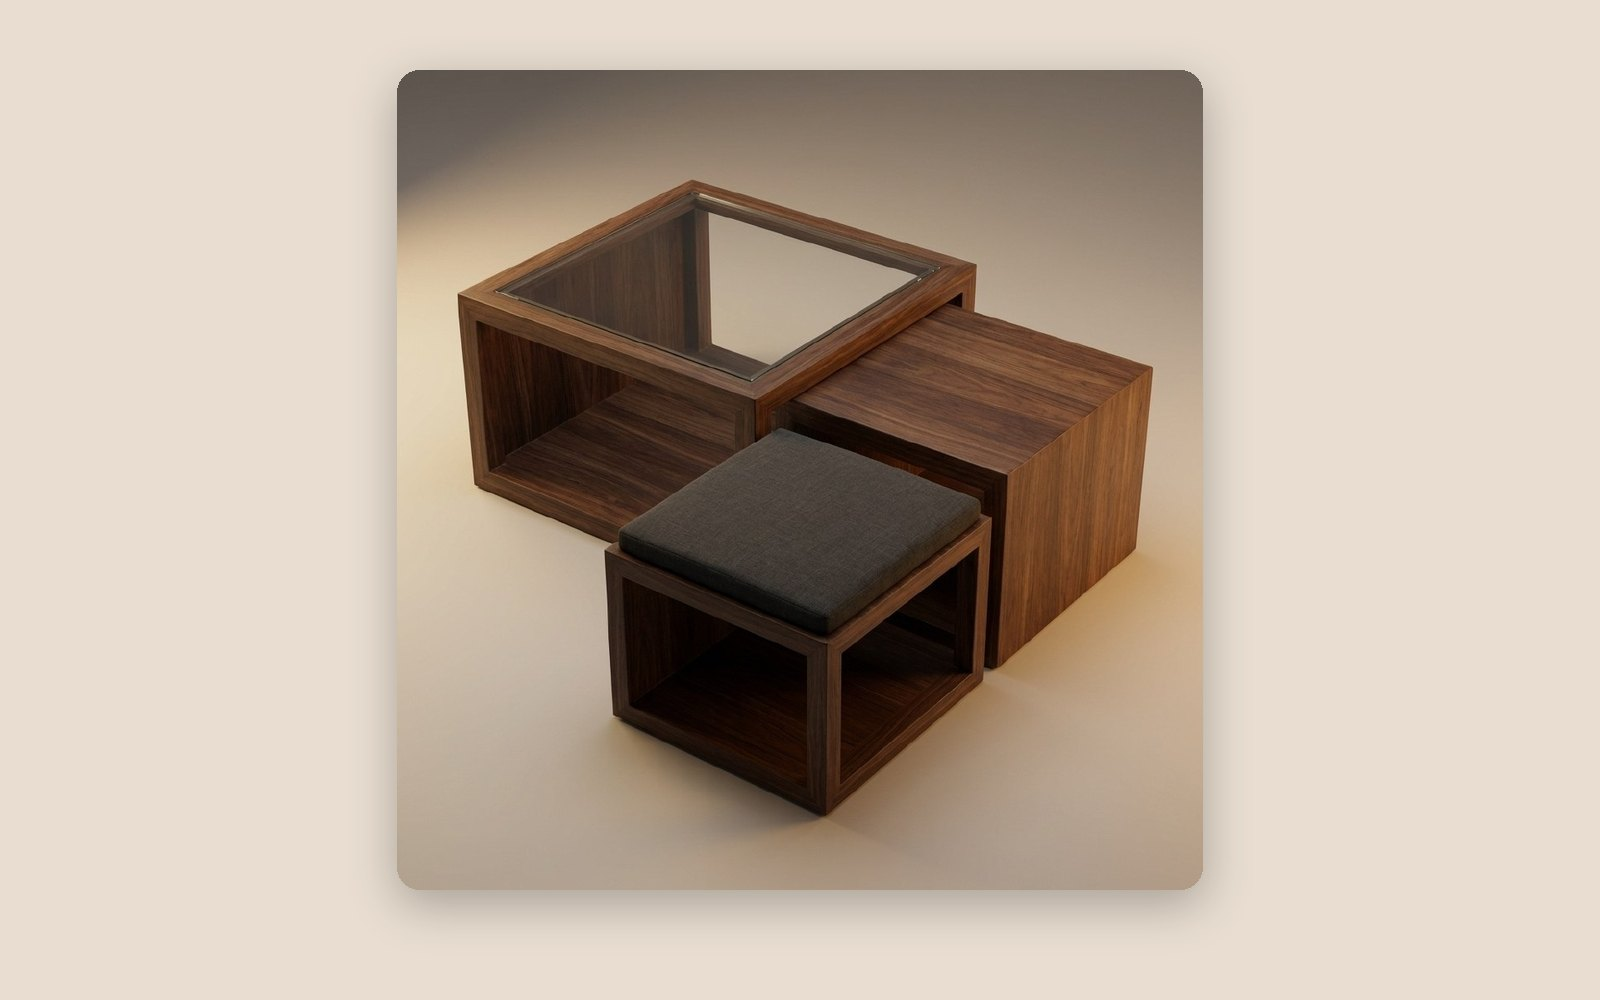
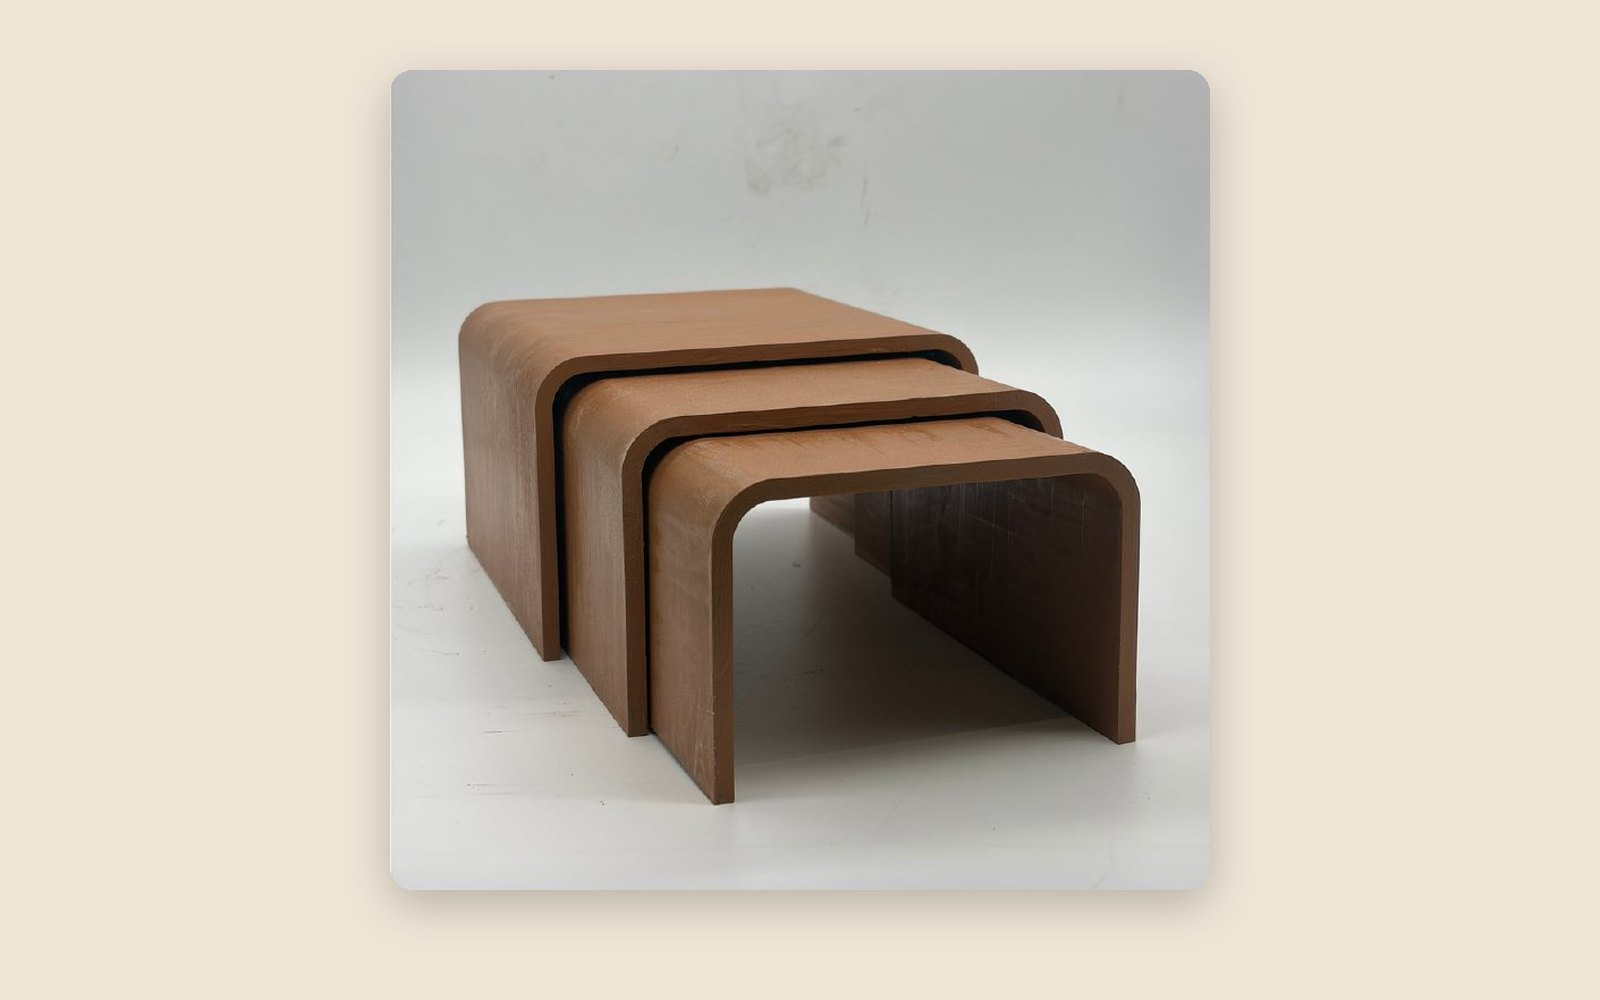
Alcove: rename, final deck process, 1/4 scale prototype, Taliyah's sketches
Claude-Session: https://claude.ai/code/session_01AwHsma3J4qtfuvQVtc4JfL

diff --git a/work/alcove.html b/work/alcove.html
@@ -1,0 +1,106 @@
+<!DOCTYPE html>
+<html lang="en">
+<head>
+<meta charset="utf-8">
+<meta name="viewport" content="width=device-width, initial-scale=1">
+<title>Alcove · Taliyah Harvey</title>
+<meta name="description" content="Process and reflection: a nesting coffee table for small first apartments: the smaller table slides out to expand the surface.">
+<link rel="icon" type="image/png" href="../assets/favicon.png">
+<link rel="preconnect" href="https://fonts.googleapis.com">
+<link rel="preconnect" href="https://fonts.gstatic.com" crossorigin>
+<link rel="stylesheet" href="https://fonts.googleapis.com/css2?family=Inter:wght@400;500;600;700;800;900&display=swap">
+<link rel="stylesheet" href="process.css">
+</head>
+<body>
+<header class="top">
+  <div class="bar">
+    <a class="mark" href="/" aria-label="Taliyah Harvey, home"><b>tj</b> <span>Taliyah Harvey</span></a>
+    <nav aria-label="Site">
+      <a href="/#work">Work</a>
+      <a href="/#about">About</a>
+      <a href="/#contact">Contact</a>
+      <a href="https://drive.google.com/file/d/1bd_ZmiNHnVtcSxHFkS7MbYG4A5ucGU3_/view?usp=sharing" target="_blank" rel="noopener">Resume</a>
+    </nav>
+  </div>
+</header>
+
+<main class="col">
+  <section class="head">
+    <a class="back" href="/#classwork">&larr; All class projects</a>
+    <p class="kick">Spring 2026 · ACAD-445, Designing Products for Licensing</p>
+    <h1>Alcove</h1>
+    <p class="plabel">Problem statement</p>
+    <p class="sub">A <span class="blank">young adult</span> who feels <span class="blank">stuck</span> about <span class="blank">furnishing a first apartment</span> needs to <span class="blank">find one piece that works for work, living and hosting</span>, but <span class="blank">most furniture is cheap, bulky or single-use</span>.</p>
+    <ul class="meta"><li><span>Team</span><b>Bodie Currier, Maya Parthasarathy, David Rodin, Jones Mays II and me</b></li><li><span>Class</span><b>ACAD-445, Designing Products for Licensing</b></li><li><span>Built</span><b>1/4 scale prototype</b></li></ul>
+    
+    <div class="nums"><div><b>1/4</b><span>scale prototype we built</span></div><div><b>1 motion</b><span>to expand the surface</span></div></div>
+  </section>
+
+  <section class="sect" aria-labelledby="how-h">
+    <h2 id="how-h">How It Went</h2>
+    <ol class="log">
+      <li>
+        <div class="when">Purpose<span class="tag r">Research</span></div>
+        <h3>Furniture That Grows with You</h3>
+        <p>Young adults furnishing their first apartment need furniture that's affordable and works for work, living and hosting, without taking over a small space. Most options make you pick: cheap but temporary, stylish but single-purpose, or functional but huge.</p><p>Our idea: furniture that works by day, lives by night, and hosts friends without crowding the room.</p>
+      </li>
+      <li>
+        <div class="when">Research<span class="tag r">Research</span></div>
+        <h3>Julie and Alex</h3>
+        <p>We built two personas from our interviews.</p><ul><li><b>Julie</b>, a UX designer in a 500 sq ft downtown studio. Curated, warm neutrals, hosts small dinners. Hates visually heavy furniture and pieces that look too convertible.</li><li><b>Alex</b>, a junior marketing associate with a roommate, working from home 3 to 4 days a week. Wants something that feels adult and affordable. Hates bulky, wobbly lift-top tables.</li></ul>
+      </li>
+      <li>
+        <div class="when">Research<span class="tag r">Research</span></div>
+        <h3>The Gap</h3>
+        <p>We mapped what's out there twice: simple versus complex, and compact versus space-consuming. The corner we wanted, simple, multi-functional and compact, was basically empty.</p><div class="shots"><figure class="shot"><img src="img/table/map1.jpg" alt="Competitor map: intuitive versus complex, single-purpose versus multi-functional" loading="lazy"><figcaption>Simple and multi-functional</figcaption></figure><figure class="shot"><img src="img/table/map2.jpg" alt="Competitor map: modern versus over-complicated, space-consuming versus compact" loading="lazy"><figcaption>Modern and compact</figcaption></figure></div>
+      </li>
+      <li>
+        <div class="when">Definition<span class="tag d">Design</span></div>
+        <h3>How Might We</h3>
+        <p>How might we design a coffee table that intuitively transforms between experiences without overwhelming a small apartment?</p><ul><li>Simple: one motion, no tools, stable for years</li><li>Multi-functional: coffee table, work surface and dining</li><li>Space-efficient: small when closed, never doubles its visual footprint</li><li>Aesthetically pleasing: clean, neutral, premium</li></ul>
+      </li>
+      <li>
+        <div class="when">Ideation<span class="tag d">Design</span></div>
+        <h3>My Sketches</h3>
+        <p>Two of my concepts: a charcuterie tray with removable ceramic dishes that fit together like puzzle pieces, basically adult Lunchables, and Jenga seats, small cushions that stack into one corner piece and make cleaning up kind of fun.</p><figure class="shot"><img src="img/table/sketch-concepts.jpg" alt="My sketches for a charcuterie tray and Jenga seats" loading="lazy"></figure>
+      </li>
+      <li>
+        <div class="when">Ideation<span class="tag d">Design</span></div>
+        <h3>Other Directions</h3>
+        <p>The team explored a rising top that separates private and social space, a game table with ottomans tucked underneath, and a boxy walnut nesting set with a glass top and an ottoman.</p><div class="shots"><figure class="shot"><img src="img/table/gametable.jpg" alt="Game table with ottomans tucked underneath" loading="lazy"><figcaption>Game table</figcaption></figure><figure class="shot"><img src="img/table/render.jpg" alt="Walnut nesting set with glass top and ottoman" loading="lazy"><figcaption>Walnut nesting set</figcaption></figure></div>
+      </li>
+      <li>
+        <div class="when">Development<span class="tag d">Design</span></div>
+        <h3>Waterfall Edges</h3>
+        <p>We landed on three nesting tables with soft waterfall edges. The smaller tables slide out from under the largest one to expand the surface. No hardware, no moving parts.</p><div class="shots"><figure class="shot"><img src="img/table/waterfall.jpg" alt="Light wood nesting tables with waterfall edges" loading="lazy"><figcaption>Direction</figcaption></figure><figure class="shot"><img src="img/table/cad2.jpg" alt="CAD models of the nesting pieces" loading="lazy"><figcaption>CAD</figcaption></figure></div>
+      </li>
+      <li>
+        <div class="when">Development<span class="tag t">Tech</span></div>
+        <h3>Making It</h3>
+        <p>We 3D printed molds, bent and glued the wood layers, clamped them, and sanded and stained the finished pieces.</p><figure class="shot"><img src="img/table/print.jpg" alt="3D printing the molds" loading="lazy"></figure>
+      </li>
+      <li>
+        <div class="when">Development<span class="tag b">Product</span></div>
+        <h3>In the Shop</h3>
+        <div class="shots"><figure class="shot"><img src="img/table/build2.jpg" alt="Gluing and pressing the wood layers" loading="lazy"><figcaption>Pressing</figcaption></figure><figure class="shot"><img src="img/table/build3.jpg" alt="Clamping the bent pieces" loading="lazy"><figcaption>Clamping</figcaption></figure></div>
+      </li>
+      <li>
+        <div class="when">Final<span class="tag b">Product</span></div>
+        <h3>Final Prototype</h3>
+        <p>Built at 1/4 scale. The smaller table slides out from beneath the larger one to instantly expand the surface: compact, intuitive and clean.</p><div class="shots"><figure class="shot"><img src="img/table/assembled.jpg" alt="Raw assembled nesting tables" loading="lazy"><figcaption>Before finishing</figcaption></figure><figure class="shot"><img src="img/table/proto.jpg" alt="Finished stained prototype, closed and open" loading="lazy"><figcaption>Finished</figcaption></figure></div>
+      </li>
+      <li>
+        <div class="when">Final<span class="tag b">Product</span></div>
+        <h3>Alcove at Home</h3>
+        <figure class="shot"><img src="img/table/renders2.jpg" alt="Renderings of Alcove in a living room" loading="lazy"></figure>
+      </li>
+    </ol>
+  </section>
+
+
+  <a class="nextp" href="/#work"><span><small>Back to</small><b>Selected Work</b></span><span class="go" aria-hidden="true">&rarr;</span></a>
+</main>
+
+<footer><div class="bar"><span>Taliyah Harvey</span><span>ACAD-445 · Designing Products for Licensing</span></div></footer>
+</body>
+</html>

diff --git a/index.html b/index.html
@@ -568,13 +568,13 @@ footer .wrap{display:flex;flex-wrap:wrap;justify-content:space-between;gap:10px;
           </span>
         </article>
         <article class="wcard">
-          <span class="wcover"><img src="assets/covers/table.jpg" alt="" loading="lazy"><span class="wres">Design Lock</span></span>
+          <span class="wcover"><img src="assets/covers/table.jpg" alt="" loading="lazy"><span class="wres">1/4 Scale Prototype</span></span>
           <span class="wbody">
             <span class="wname">Spring 2026 · ACAD-445, Designing Products for Licensing</span>
-            <b><a class="wlink" href="work/coffee-table.html">The Coffee Table</a></b>
+            <b><a class="wlink" href="work/alcove.html">Alcove</a></b>
             <span class="wlabels"><span class="l-d">Design</span><span class="l-b">Business</span><span>Class</span></span>
-            <span class="wps">A <span class="pb">young adult</span> who feels <span class="pb">stuck</span> about <span class="pb">furnishing a first apartment</span> needs to <span class="pb">find one piece that works for work, dining and hosting</span>, but <span class="pb">most furniture is cheap, bulky or single-use</span>.</span>
-            <span class="wgos"><a class="wgo" href="work/coffee-table.html">See the process &rarr;</a></span>
+            <span class="wps">A <span class="pb">young adult</span> who feels <span class="pb">stuck</span> about <span class="pb">furnishing a first apartment</span> needs to <span class="pb">find one piece that works for work, living and hosting</span>, but <span class="pb">most furniture is cheap, bulky or single-use</span>.</span>
+            <span class="wgos"><a class="wgo" href="work/alcove.html">See the process &rarr;</a></span>
           </span>
         </article>
       </div>

diff --git a/work/eruca.html b/work/eruca.html
@@ -88,7 +88,7 @@
   </section>
 
 
-  <a class="nextp" href="coffee-table.html"><span><small>Next class project</small><b>The Coffee Table</b></span><span class="go" aria-hidden="true">&rarr;</span></a>
+  <a class="nextp" href="alcove.html"><span><small>Next class project</small><b>Alcove</b></span><span class="go" aria-hidden="true">&rarr;</span></a>
 </main>
 
 <footer><div class="bar"><span>Taliyah Harvey</span><span>ACAD-324 · Professor Wolter</span></div></footer>

diff --git a/work/build_pages.py b/work/build_pages.py
@@ -429,41 +429,51 @@ ERUCA = dict(
              img=("img/eruca/final.jpg", "The Eruca Pod")),
     ],
     reflect=[],
-    next=("coffee-table.html", "The Coffee Table"),
+    next=("alcove.html", "Alcove"),
     foot="ACAD-324 · Professor Wolter",
 )
 
 TABLE = dict(
-    slug="coffee-table", name="The Coffee Table", when="Spring 2026 · ACAD-445, Designing Products for Licensing",
-    desc="a nesting coffee table that triples into a table, side table and ottoman for small first apartments.",
-    sub="A young adult who feels stuck about furnishing a first apartment needs to find one piece that works for work, dining and hosting, but most furniture is cheap, bulky or single-use.",
-    meta=[("Team", "Maya Parthasarathy, Bodie, Jones Mays, David and me"), ("Class", "ACAD-445, Designing Products for Licensing"), ("Deliverable", "Design lock and mini prototype")],
+    slug="alcove", name="Alcove", when="Spring 2026 · ACAD-445, Designing Products for Licensing",
+    desc="a nesting coffee table for small first apartments: the smaller table slides out to expand the surface.",
+    sub="A young adult who feels stuck about furnishing a first apartment needs to find one piece that works for work, living and hosting, but most furniture is cheap, bulky or single-use.",
+    meta=[("Team", "Bodie Currier, Maya Parthasarathy, David Rodin, Jones Mays II and me"), ("Class", "ACAD-445, Designing Products for Licensing"), ("Built", "1/4 scale prototype")],
     links=[],
     back="/#classwork", backlabel="All class projects", nextlabel="Back to",
+    nums=[("1/4", "scale prototype we built"), ("1 motion", "to expand the surface")],
     log=[
-        dict(when="Market", tag="Research", title="First Apartment Problems",
-             text=["Our market was 22 to 24 year olds and grad students furnishing their first place. They need furniture that's affordable on an entry-level budget, flexible enough for work, living and hosting, and small enough for a tiny apartment.",
-                   "Most options make you pick: cheap but temporary, stylish but single-purpose, or functional but huge."]),
+        dict(when="Purpose", tag="Research", title="Furniture That Grows With You",
+             text=["Young adults furnishing their first apartment need furniture that's affordable and works for work, living and hosting, without taking over a small space. Most options make you pick: cheap but temporary, stylish but single-purpose, or functional but huge.",
+                   "Our idea: furniture that works by day, lives by night, and hosts friends without crowding the room."]),
+        dict(when="Research", tag="Research", title="Julie and Alex",
+             text=["We built two personas from our interviews."],
+             list=["<b>Julie</b>, a UX designer in a 500 sq ft downtown studio. Curated, warm neutrals, hosts small dinners. Hates visually heavy furniture and pieces that look too convertible.",
+                   "<b>Alex</b>, a junior marketing associate with a roommate, working from home 3 to 4 days a week. Wants something that feels adult and affordable. Hates bulky, wobbly lift-top tables."]),
         dict(when="Research", tag="Research", title="The Gap",
-             text=["We interviewed young professionals in small apartments and mapped what's out there. Almost nothing was both simple to use and multi-functional, so that's the corner we aimed for."],
-             img=("img/table/map.jpg", "Competitor map: intuitive versus complex, single-purpose versus multi-functional")),
-        dict(when="Research", tag="Design", title="How Might We",
-             list=["Let one table work for desk, dining and hosting?", "Get more surface without a bigger footprint?", "Make it expand in a way that's obvious without instructions?"],
-             text=["Users should feel capable, settled, effortless, proud and unburdened."]),
-        dict(when="Ideation", tag="Design", title="Idea 1: Rising Top",
-             text=["A two-level top that lifts, so you can stow things and separate your private space from your social space."],
-             img=("img/table/idea1.jpg", "Rising-top coffee table render and sketches")),
-        dict(when="Ideation", tag="Design", title="Idea 2: Tapas Table",
-             text=["A sculptural wood table with ceramic bowls set into the surface, more art piece than furniture."],
-             img=("img/table/idea2.jpg", "Modular tapas table with ceramic inlays")),
-        dict(when="Criteria", tag="Product", title="Five Rules",
-             list=["Intuitively simple: one motion, no tools, no wobble", "Multi-functional: coffee table, desk and dining surface", "Compact: built for apartments", "Modern: clean, neutral, premium", "Durable: no fragile finishes"]),
-        dict(when="Design lock", tag="Design", title="Nested",
-             text=["We locked in a nesting design. Three pieces fit inside each other: an outer frame with a glass top, a mid-size wooden table, and a small table with an ottoman cushion. It triples in size with no moving parts or hardware."],
-             pair=[("img/table/lock.jpg", "Nested concept references and sketch", "References and first sketch"), ("img/table/sketches.jpg", "First iteration sketches", "First iteration")]),
-        dict(when="Final", tag="Product", title="The Coffee Table",
-             text=["Coffee table, side table and ottoman, all at once or tucked into one. We built a mini version for class."],
-             img=("img/table/render.jpg", "Render of the nested coffee table with ottoman")),
+             text=["We mapped what's out there twice: simple versus complex, and compact versus space-consuming. The corner we wanted, simple, multi-functional and compact, was basically empty."],
+             pair=[("img/table/map1.jpg", "Competitor map: intuitive versus complex, single-purpose versus multi-functional", "Simple and multi-functional"), ("img/table/map2.jpg", "Competitor map: modern versus over-complicated, space-consuming versus compact", "Modern and compact")]),
+        dict(when="Definition", tag="Design", title="How Might We",
+             text=["How might we design a coffee table that intuitively transforms between experiences without overwhelming a small apartment?"],
+             list=["Simple: one motion, no tools, stable for years", "Multi-functional: coffee table, work surface and dining", "Space-efficient: small when closed, never doubles its visual footprint", "Aesthetically pleasing: clean, neutral, premium"]),
+        dict(when="Ideation", tag="Design", title="My Sketches",
+             text=["Two of my concepts: a charcuterie tray with removable ceramic dishes that fit together like puzzle pieces, basically adult Lunchables, and Jenga seats, small cushions that stack into one corner piece and make cleaning up kind of fun."],
+             img=("img/table/sketch-concepts.jpg", "My sketches for a charcuterie tray and Jenga seats")),
+        dict(when="Ideation", tag="Design", title="Other Directions",
+             text=["The team explored a rising top that separates private and social space, a game table with ottomans tucked underneath, and a boxy walnut nesting set with a glass top and an ottoman."],
+             pair=[("img/table/gametable.jpg", "Game table with ottomans tucked underneath", "Game table"), ("img/table/render.jpg", "Walnut nesting set with glass top and ottoman", "Walnut nesting set")]),
+        dict(when="Development", tag="Design", title="Waterfall Edges",
+             text=["We landed on three nesting tables with soft waterfall edges. The smaller tables slide out from under the largest one to expand the surface. No hardware, no moving parts."],
+             pair=[("img/table/waterfall.jpg", "Light wood nesting tables with waterfall edges", "Direction"), ("img/table/cad2.jpg", "CAD models of the nesting pieces", "CAD")]),
+        dict(when="Development", tag="Tech", title="Making It",
+             text=["We 3D printed molds, bent and glued the wood layers, clamped them, and sanded and stained the finished pieces."],
+             img=("img/table/print.jpg", "3D printing the molds")),
+        dict(when="Development", tag="Product", title="In the Shop",
+             pair=[("img/table/build2.jpg", "Gluing and pressing the wood layers", "Pressing"), ("img/table/build3.jpg", "Clamping the bent pieces", "Clamping")]),
+        dict(when="Final", tag="Product", title="Final Prototype",
+             text=["Built at 1/4 scale. The smaller table slides out from beneath the larger one to instantly expand the surface: compact, intuitive and clean."],
+             pair=[("img/table/assembled.jpg", "Raw assembled nesting tables", "Before finishing"), ("img/table/proto.jpg", "Finished stained prototype, closed and open", "Finished")]),
+        dict(when="Final", tag="Product", title="Alcove at Home",
+             img=("img/table/renders2.jpg", "Renderings of Alcove in a living room")),
     ],
     reflect=[],
     next=("/#work", "Selected Work"),
